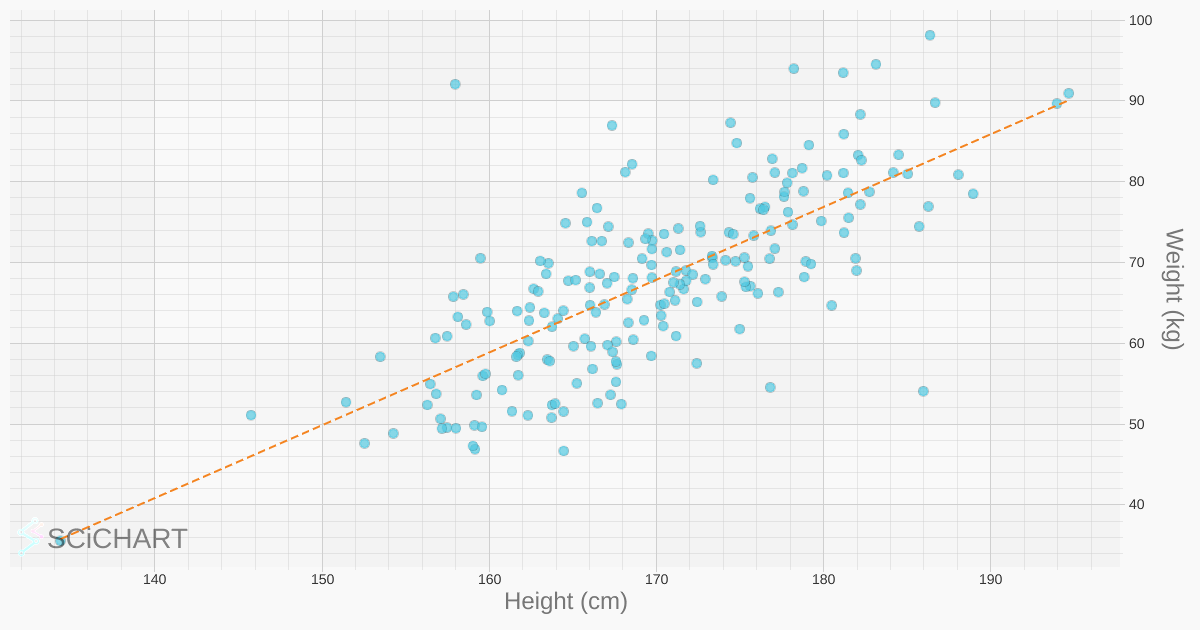
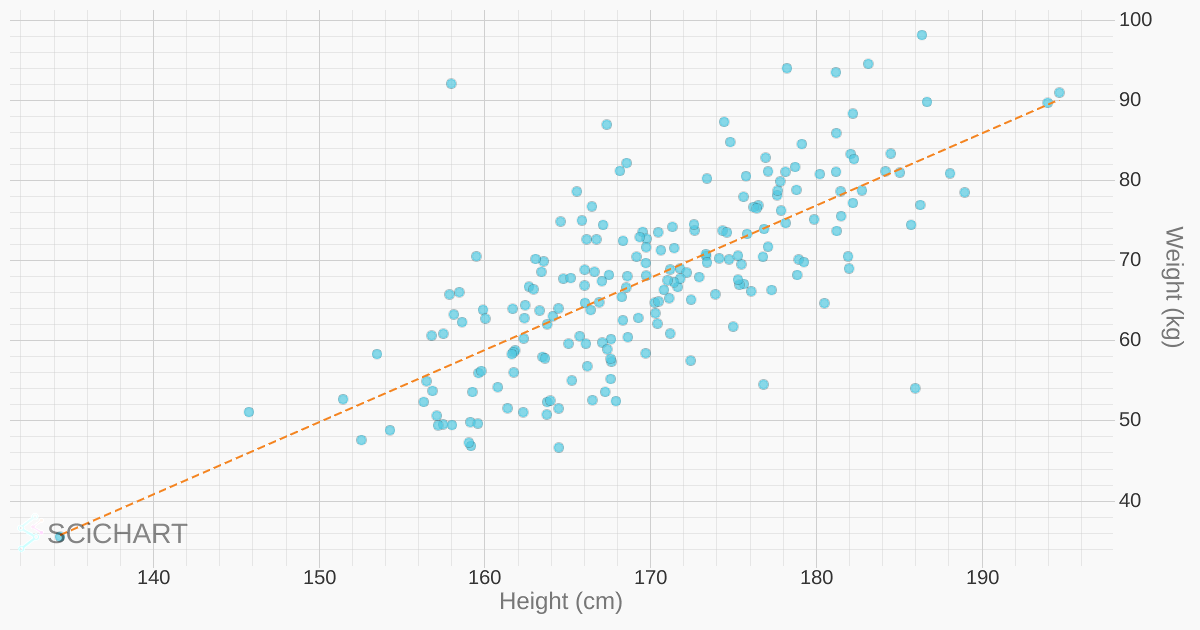
docs(learn): larger axis fonts in images; more transparent orange in 100k demo
- scatter plot: page and share images regenerated with larger axis fonts
- 100k demo: orange group more transparent so the blue shows through

diff --git a/docusaurus/docs/learn/scatter-plot/LargeData/demo.js b/docusaurus/docs/learn/scatter-plot/LargeData/demo.js
@@ -64,7 +64,7 @@ async function largeScatterPlot(divElementId) {
             })
         );
     addGroup(rising, "Rising group", "#50C7E022", "#50C7E0");
-    addGroup(falling, "Falling group", "#F4842022", "#F48420");
+    addGroup(falling, "Falling group", "#F484200D", "#F48420"); // more transparent, so the blue shows through where they cross
 
     // Zoom with the mouse wheel, pan by dragging, double-click to reset; the legend names each group
     sciChartSurface.chartModifiers.add(

diff --git a/docusaurus/docs/learn/scatter-plot/LargeData/demo.ts b/docusaurus/docs/learn/scatter-plot/LargeData/demo.ts
@@ -64,7 +64,7 @@ async function largeScatterPlot(divElementId) {
             })
         );
     addGroup(rising, "Rising group", "#50C7E022", "#50C7E0");
-    addGroup(falling, "Falling group", "#F4842022", "#F48420");
+    addGroup(falling, "Falling group", "#F484200D", "#F48420"); // more transparent, so the blue shows through where they cross
 
     // Zoom with the mouse wheel, pan by dragging, double-click to reset; the legend names each group
     sciChartSurface.chartModifiers.add(

diff --git a/docusaurus/docs/learn/scatter-plot/index.md b/docusaurus/docs/learn/scatter-plot/index.md
@@ -136,7 +136,7 @@ When a scatter plot has tens of thousands of points or more, dots overlap until 
 - **zooming in** on a region to see individual points;
 - switching to a **[heatmap](/learn/heatmap/)** that counts how many points fall in each cell.
 
-The chart below has 100,000 points in two groups, each in its own colour: a rising group (blue) and a falling group (orange) that cross in the middle. With small, semi-transparent dots you can see both trends and where they're densest. Where they cross, the orange dots hide the blue ones underneath: untick **Falling group** in the legend to see them. Scroll to zoom into the dense areas.
+The chart below has 100,000 points in two groups, each in its own colour: a rising group (blue) and a falling group (orange) that cross in the middle. With small, semi-transparent dots you can see both trends and where they're densest. The orange group is drawn more transparent, so the blue shows through where they cross. Untick a group in the legend to see the other one on its own. Scroll to zoom into the dense areas.
 
 <LiveDocSnippet maxWidth={'100%'} name="./LargeData/demo" />
 
